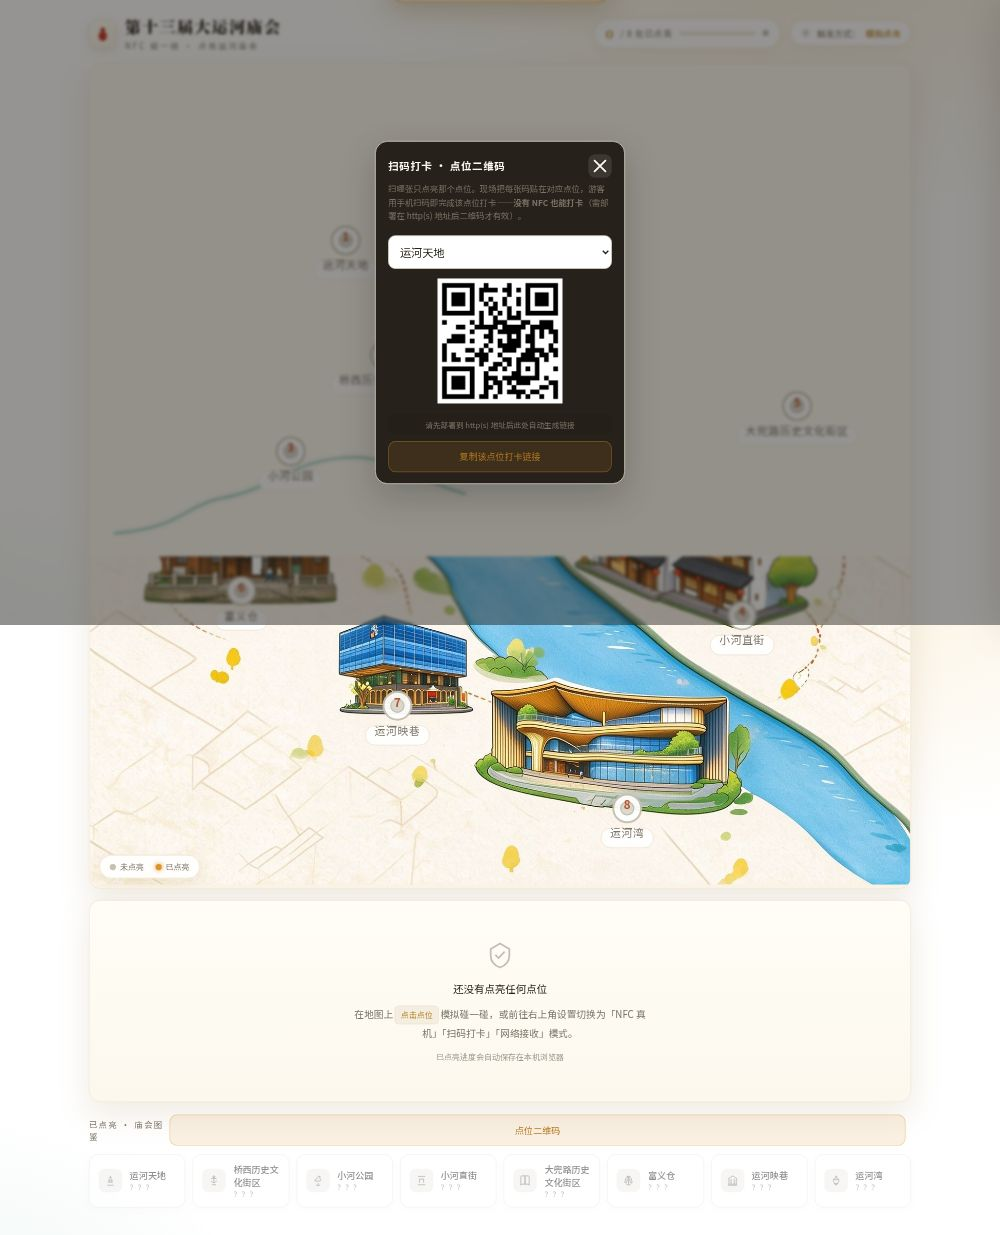
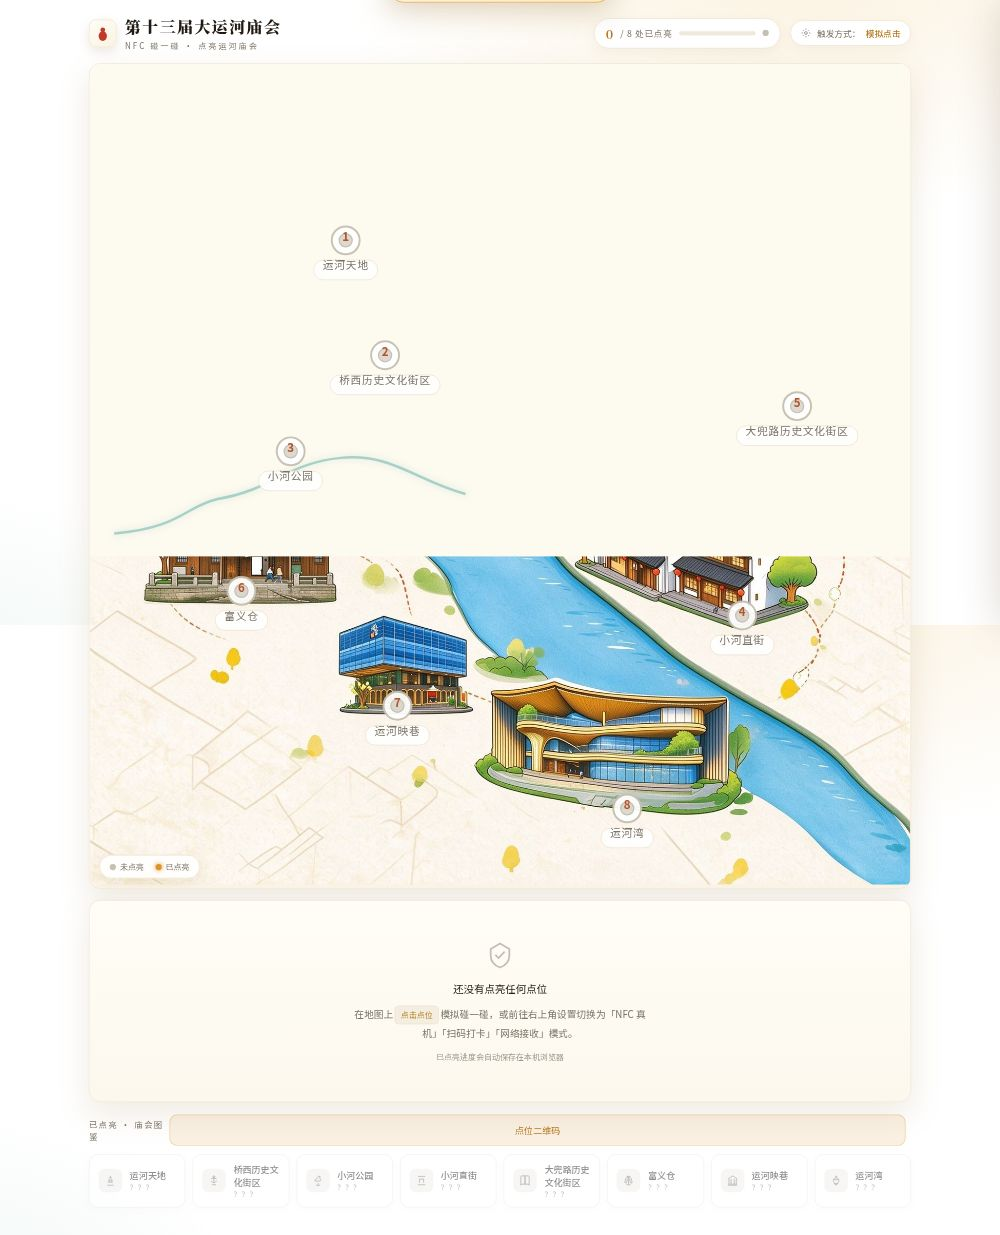
修复弹窗无法关闭：display:flex覆盖hidden属性，加[hidden]{display:none}，弹窗点×/遮罩可正常关闭回地图

diff --git a/index.html b/index.html
@@ -229,6 +229,7 @@ svg .island{fill:rgba(143,196,186,.16)}
   *{animation:none!important;transition:none!important}
 }
 .qr-modal{position:fixed;top:0;left:0;right:0;bottom:0;z-index:80;display:flex;align-items:center;justify-content:center;background:rgba(20,18,14,.45);backdrop-filter:blur(2px);padding:18px}
+.qr-modal[hidden]{display:none}
 .qr-card{background:var(--paper);border:1px solid var(--line);border-radius:18px;padding:18px 18px 16px;max-width:360px;width:100%;box-shadow:0 18px 50px rgba(0,0,0,.2)}
 .qr-head{display:flex;justify-content:space-between;align-items:center;margin-bottom:4px}
 .qr-head h3{margin:0;font-size:15px;letter-spacing:1px;color:var(--ink)}
